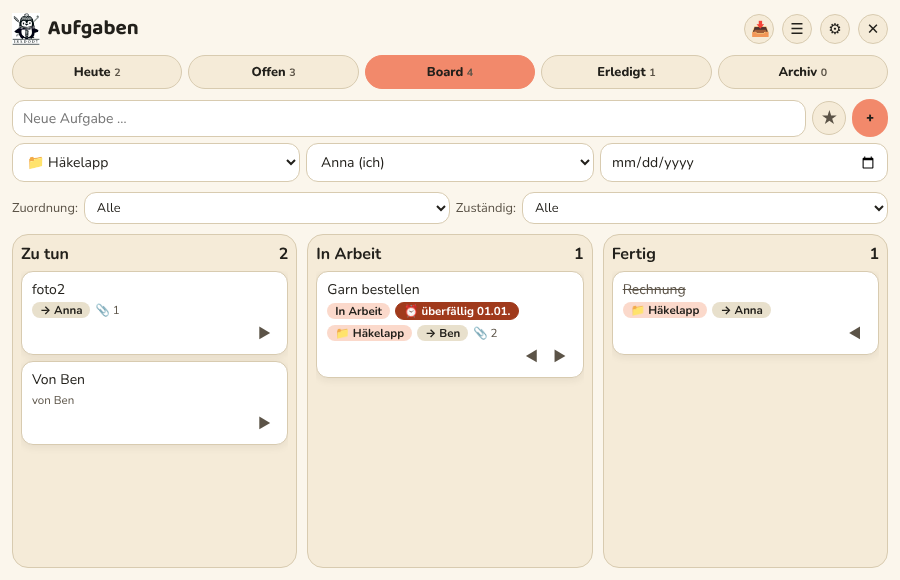
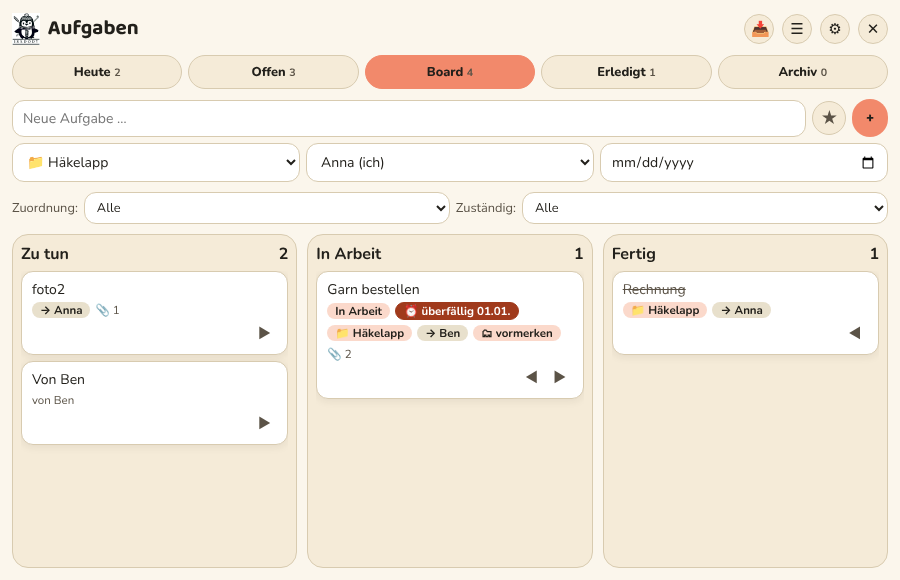
Häkchen 'Zum Einsortieren vormerken' (ablegen/ablage), README zu mehreren Nutzern
Claude-Session: https://claude.ai/code/session_01TVGLGvtCd6t2xYrWaPRYVn

Changed region(s): [[0.3422, 0.5586, 0.6533, 0.7138], [0.3733, 0.5897, 0.4044, 0.6207]]

diff --git a/todo-tray/pwa/app.js b/todo-tray/pwa/app.js
@@ -59,6 +59,7 @@ function metaEl(t) {
   const f = faelligTag(t); if (f) m.append(f);
   const pn = projName(t.zuordnung); if (pn) m.append(el('span', { className: 'tag', textContent: pn }));
   if (t.zugewiesenAn) m.append(el('span', { className: 'tag wer', textContent: '→ ' + t.zugewiesenAn }));
+  if (t.ablegen) m.append(el('span', { className: 'tag', textContent: '🗂 vormerken' }));
   if (t.dateienAnzahl) m.append(el('span', { textContent: '📎 ' + t.dateienAnzahl }));
   if (t.erstelltVon && t.erstelltVon !== me) m.append(el('span', { textContent: 'von ' + t.erstelltVon }));
   return m;
@@ -119,6 +120,7 @@ function refreshDetail() {
   const t = finde(detailId); if (!t) { detailId = null; return schliesse(); }
   $('dStatus').value = t.status; $('dFaellig').value = t.faellig || ''; $('dHeute').checked = istHeute(t);
   optWer($('dWer'), false, t.zugewiesenAn || ''); $('dWer').value = t.zugewiesenAn || ''; optProj($('dZu'), 'Ohne Zuordnung', t.zuordnung || '');
+  $('dAblegen').checked = !!t.ablegen; $('dAblage').textContent = t.ablage ? 'Dateien abgelegt in: ' + t.ablage : '';
   $('dInfo').textContent = 'Angelegt von ' + t.erstelltVon + ', zuletzt geändert von ' + t.geaendertVon + '.';
   $('dArch').textContent = t.archiviert ? 'Zurückholen' : 'Archivieren';
   const box = $('dDateien'); box.replaceChildren();
@@ -129,7 +131,7 @@ function refreshDetail() {
 }
 const feld = (id, key, wert) => { $(id).onchange = () => aendern(detailId, { [key]: wert($(id)) }); };
 feld('dStatus', 'status', e => e.value); feld('dFaellig', 'faellig', e => e.value || null); feld('dWer', 'zugewiesenAn', e => e.value || null);
-feld('dZu', 'zuordnung', e => e.value || null); feld('dHeute', 'heute', e => e.checked ? heuteStr() : null);
+feld('dAblegen', 'ablegen', e => e.checked); feld('dZu', 'zuordnung', e => e.value || null); feld('dHeute', 'heute', e => e.checked ? heuteStr() : null);
 $('dTitel').onchange = () => { const v = $('dTitel').value.trim(); if (v) aendern(detailId, { titel: v }); else $('dTitel').value = finde(detailId).titel; };
 $('dNotiz').onchange = () => aendern(detailId, { notiz: $('dNotiz').value });
 $('dFoto').onclick = () => $('fFoto').click(); $('dAdd').onclick = () => $('fDatei').click();

diff --git a/todo-tray/src/app.js b/todo-tray/src/app.js
@@ -67,6 +67,7 @@ function metaEl(t) {
   const f = faelligTag(t); if (f) meta.append(f);
   const pn = projName(t.zuordnung); if (pn) meta.append(el('span', { className: 'tag', textContent: pn }));
   if (t.zugewiesenAn) meta.append(el('span', { className: 'tag wer', textContent: '→ ' + t.zugewiesenAn }));
+  if (t.ablegen) meta.append(el('span', { className: 'tag', textContent: '🗂 vormerken' }));
   if (t.dateien && t.dateien.length) meta.append(el('span', { textContent: '📎 ' + t.dateien.length }));
   if (t.erstelltVon && t.erstelltVon !== cfg.nutzer) meta.append(el('span', { textContent: 'von ' + t.erstelltVon }));
   return meta;
@@ -169,6 +170,7 @@ function refreshDetail(erst) {
   $('dStatus').value = t.status; $('dFaellig').value = t.faellig || ''; $('dHeute').checked = istHeute(t);
   optionenWer($('dWer'), false, t.zugewiesenAn || ''); $('dWer').value = t.zugewiesenAn || '';
   optionen($('dZu'), 'Ohne Zuordnung', t.zuordnung || '');
+  $('dAblegen').checked = !!t.ablegen; $('dAblage').textContent = t.ablage ? 'Dateien abgelegt in: ' + t.ablage : '';
   $('dInfo').textContent = 'Angelegt von ' + t.erstelltVon + ', zuletzt geändert von ' + t.geaendertVon + '.';
   $('dArch').textContent = t.archiviert ? 'Zurückholen' : 'Archivieren';
   const box = $('dDateien'); box.replaceChildren();
@@ -182,7 +184,7 @@ function refreshDetail(erst) {
 }
 const feld = (id, key, wert) => { $(id).onchange = () => aendern(detailId, { [key]: wert($(id)) }); };
 feld('dStatus', 'status', e => e.value); feld('dFaellig', 'faellig', e => e.value || null); feld('dWer', 'zugewiesenAn', e => e.value || null);
-feld('dZu', 'zuordnung', e => e.value || null); feld('dHeute', 'heute', e => e.checked ? heuteStr() : null);
+feld('dAblegen', 'ablegen', e => e.checked); feld('dZu', 'zuordnung', e => e.value || null); feld('dHeute', 'heute', e => e.checked ? heuteStr() : null);
 $('dTitel').onchange = () => { const v = $('dTitel').value.trim(); if (v) aendern(detailId, { titel: v }); else $('dTitel').value = finde(detailId).titel; };
 $('dNotiz').onchange = () => aendern(detailId, { notiz: $('dNotiz').value });
 $('dAdd').onclick = async () => { await window.api.dateiWaehlen(detailId); await laden(); };

diff --git a/todo-tray/pwa/core.js b/todo-tray/pwa/core.js
@@ -5,7 +5,7 @@
   else root.TodoCore = factory();
 })(typeof self !== 'undefined' ? self : this, function () {
   const STATUS = ['todo', 'doing', 'done'];
-  const FIELDS = ['titel', 'notiz', 'status', 'erledigt', 'erledigtAm', 'archiviert', 'heute', 'zuordnung', 'zugewiesenAn', 'faellig'];
+  const FIELDS = ['titel', 'notiz', 'status', 'erledigt', 'erledigtAm', 'archiviert', 'heute', 'zuordnung', 'zugewiesenAn', 'faellig', 'ablegen', 'ablage'];
   const ID_RE = /^[a-z0-9-]+$/;
 
   const now = () => new Date().toISOString();
@@ -24,7 +24,7 @@
     const st = STATUS.includes(status) ? status : 'todo';
     return {
       id: newId(), titel: String(titel).trim(), notiz, status: st, erledigt: st === 'done', erledigtAm: st === 'done' ? now() : null,
-      archiviert: false, heute, zuordnung, zugewiesenAn, faellig,
+      archiviert: false, heute, zuordnung, zugewiesenAn, faellig, ablegen: false, ablage: null,
       erstelltVon: user, erstelltAm: now(), geaendertVon: user, geaendertAm: now(),
     };
   }

diff --git a/todo-tray/shared/core.js b/todo-tray/shared/core.js
@@ -5,7 +5,7 @@
   else root.TodoCore = factory();
 })(typeof self !== 'undefined' ? self : this, function () {
   const STATUS = ['todo', 'doing', 'done'];
-  const FIELDS = ['titel', 'notiz', 'status', 'erledigt', 'erledigtAm', 'archiviert', 'heute', 'zuordnung', 'zugewiesenAn', 'faellig'];
+  const FIELDS = ['titel', 'notiz', 'status', 'erledigt', 'erledigtAm', 'archiviert', 'heute', 'zuordnung', 'zugewiesenAn', 'faellig', 'ablegen', 'ablage'];
   const ID_RE = /^[a-z0-9-]+$/;
 
   const now = () => new Date().toISOString();
@@ -24,7 +24,7 @@
     const st = STATUS.includes(status) ? status : 'todo';
     return {
       id: newId(), titel: String(titel).trim(), notiz, status: st, erledigt: st === 'done', erledigtAm: st === 'done' ? now() : null,
-      archiviert: false, heute, zuordnung, zugewiesenAn, faellig,
+      archiviert: false, heute, zuordnung, zugewiesenAn, faellig, ablegen: false, ablage: null,
       erstelltVon: user, erstelltAm: now(), geaendertVon: user, geaendertAm: now(),
     };
   }

diff --git a/todo-tray/test/store.test.js b/todo-tray/test/store.test.js
@@ -57,6 +57,10 @@ assert.throws(() => b.filePath(k.id, '../../aufgaben/' + k.id + '.json'));
 const sg = a.signature(); fs.writeFileSync(src, 'neu'); a.addFiles(k.id, [src]); assert.notStrictEqual(a.signature(), sg);
 a.removeFile(k.id, 'bericht.txt'); assert.strictEqual(a.load().aufgaben.find(x => x.id === k.id).dateien.length, 2);
 a.remove(k.id); assert.ok(!fs.existsSync(path.join(dir, 'dateien', k.id)));
+// Ablegen-Markierung
+const ab = a.create({ titel: 'Ablage' }); assert.strictEqual(ab.ablegen, false);
+assert.strictEqual(b.update(ab.id, { ablegen: true }).ablegen, true);
+assert.strictEqual(a.update(ab.id, { ablegen: false, ablage: 'archiv/Häkelapp/Ablage' }).ablage, 'archiv/Häkelapp/Ablage');
 // Eingang
 fs.writeFileSync(path.join(dir, 'eingang', 'IMG_001.jpg'), 'x'); fs.writeFileSync(path.join(dir, 'eingang', 'IMG_002.jpg'), 'y');
 assert.deepStrictEqual(a.load().eingang, ['IMG_001.jpg', 'IMG_002.jpg']);

diff --git a/todo-tray/pwa/index.html b/todo-tray/pwa/index.html
@@ -103,6 +103,8 @@
       <label>Projekt / Chat<select id="dZu"></select></label>
     </div>
     <label style="flex-direction:row;align-items:center;gap:8px"><input type="checkbox" id="dHeute" style="width:auto"> Für heute</label>
+    <label style="flex-direction:row;align-items:center;gap:8px"><input type="checkbox" id="dAblegen" style="width:auto"> Zum Einsortieren vormerken (Dateien in Drive-Ordner ablegen)</label>
+    <p class="hint" id="dAblage"></p>
     <b>Dateien</b>
     <div id="dDateien" style="display:flex;flex-direction:column;gap:8px"></div>
     <div class="r"><button class="go" type="button" id="dFoto">📷 Foto</button><button class="ghost" type="button" id="dAdd">Datei wählen</button></div>

diff --git a/todo-tray/src/index.html b/todo-tray/src/index.html
@@ -112,6 +112,8 @@
       <label>Projekt / Chat<select id="dZu"></select></label>
     </div>
     <label style="flex-direction:row;align-items:center;gap:8px"><input type="checkbox" id="dHeute"> Für heute</label>
+    <label style="flex-direction:row;align-items:center;gap:8px"><input type="checkbox" id="dAblegen"> Zum Einsortieren vormerken (Dateien in Drive-Ordner ablegen)</label>
+    <p class="hint" id="dAblage"></p>
     <div class="sec">Dateien</div>
     <div id="dDateien" style="display:flex;flex-direction:column;gap:6px"></div>
     <div class="drop" id="dDrop">Dateien hierher ziehen oder <button type="button" class="go" id="dAdd" style="padding:4px 12px">auswählen</button></div>

diff --git a/todo-tray/test/ui.test.js b/todo-tray/test/ui.test.js
@@ -58,6 +58,8 @@ const { Store } = require('../src/store');
   const f = path.join(dir, 'angebot.pdf'); fs.writeFileSync(f, 'x');
   await page.evaluate(([id, p]) => window.api.dateiHinzu(id, [p]), [gb.id, f]); await page.evaluate(() => window.api.__cb()); await page.waitForTimeout(200);
   assert.ok((await page.locator('#dDateien').textContent()).includes('angebot.pdf'));
+  await page.check('#dAblegen'); await page.waitForTimeout(150);
+  assert.strictEqual(store.load().aufgaben.find(t => t.id === gb.id).ablegen, true);
   await page.click('#dOk');
   assert.ok((await page.locator('.tag.late').count()) >= 1);                  // überfällig markiert
   // Eingang (Handy-Fotos)

diff --git a/todo-tray/test/pwa.test.js b/todo-tray/test/pwa.test.js
@@ -107,6 +107,8 @@ const GIS = `window.google = { accounts: { oauth2: { initTokenClient: () => ({ r
   assert.strictEqual(t2.status, 'doing'); assert.strictEqual(t2.zugewiesenAn, 'Ben'); assert.strictEqual(t2.faellig, '2020-05-01');
   const dir = by(t.id, by('dateien', rootF.id).id); assert.ok(dir, 'dateien/<id> fehlt');
   assert.deepStrictEqual(kids(dir.id).map(f => f.name), ['IMG_1.jpg']); assert.strictEqual(kids(dir.id)[0].content, 'JPEGDATA');
+  await page.check('#dAblegen'); await page.waitForTimeout(300);
+  assert.strictEqual(JSON.parse(by(t.id + '.json', aufg).content).ablegen, true);
   await page.click('#dOk');
 
   // Board

diff --git a/todo-tray/README.md b/todo-tray/README.md
@@ -20,6 +20,16 @@ Kleine To-do-App im Windows-Infobereich (Tray-Symbol unten rechts). Electron, Is
 3. Als einzelne Datei bauen: `npm run dist` → `dist/Isadody Aufgaben *.exe` (portabel), auf beide Rechner kopieren.
 4. Beim ersten Start Name und gemeinsamen Ordner wählen (⚙). Einstellungen liegen lokal pro Rechner.
 
+## Einsortieren (Claude legt Dateien ab)
+In den Aufgabendetails gibt es das Häkchen **„Zum Einsortieren vormerken“** (`ablegen: true`, am besten bei erledigten Aufgaben). Auf Zuruf („sortier die vorgemerkten Aufgaben ein“) geht Claude so vor:
+1. Alle Aufgaben mit `ablegen: true` aus `aufgaben/` lesen.
+2. Die Dateien aus `dateien/<id>/` verschieben nach `archiv/<Projekt oder Chat>/<Aufgabentitel>/` (ohne Zuordnung: `archiv/Sonstiges/...`). Nur verschieben, nie löschen. Bei Unklarheit nachfragen.
+3. In der Aufgabe `ablegen: false`, `ablage: "archiv/…/…"` setzen (die App zeigt „Dateien abgelegt in: …“) und die Aufgabe archivieren (`archiviert: true`).
+
+## Mehrere Geräte und Nutzer
+- Ein Nutzer = ein Name (exakt gleich geschrieben) auf allen eigenen Geräten. Die Daten liegen im Drive-Ordner, pro Gerät wird nur Name und Ordnerpfad gespeichert.
+- Weitere Nutzer: Ordner für das Google-Konto freigeben (Bearbeiter), als Testnutzer in der Google Auth Platform eintragen (bis 100), App installieren, Namen wählen. Der Name erscheint danach automatisch in `nutzer.json` und in allen Auswahllisten.
+
 ## Handy (PWA)
 Im Ordner `pwa/`: Web-App für Android/iPhone, spricht direkt mit der Google-Drive-API (gleiche Daten wie die Windows-App, Fotos direkt an Aufgaben). Einrichtung: `PWA-EINRICHTUNG.md`.
 
@@ -29,12 +39,13 @@ Im Ordner `pwa/`: Web-App für Android/iPhone, spricht direkt mit der Google-Dri
 <Ordner>/nutzer.json          { "nutzer": ["Anna", "Ben"] }   (trägt sich beim ersten Start selbst ein)
 <Ordner>/dateien/<id>/...     Anhänge der Aufgabe <id>
 <Ordner>/eingang/             Dateien vom Handy, noch ohne Aufgabe
+<Ordner>/archiv/<Projekt>/<Aufgabe>/   einsortierte Dateien erledigter Aufgaben
 <Ordner>/aufgaben/<id>.json   eine Datei pro Aufgabe
 ```
 Aufgabe:
 ```json
 { "id": "abc-123", "titel": "Garn bestellen", "notiz": "", "status": "todo|doing|done", "erledigt": false, "erledigtAm": null,
-  "archiviert": false, "heute": "2026-11-21", "faellig": "2026-12-01", "zugewiesenAn": "Ben", "zuordnung": "<projekt-id>|null",
+  "archiviert": false, "heute": "2026-11-21", "ablegen": false, "ablage": null, "faellig": "2026-12-01", "zugewiesenAn": "Ben", "zuordnung": "<projekt-id>|null",
   "erstelltVon": "Anna", "erstelltAm": "ISO", "geaendertVon": "Ben", "geaendertAm": "ISO" }
 ```
 Eine Datei pro Aufgabe + Teiländerungen (nur geänderte Felder werden neu geschrieben) vermeiden Konflikte. Dateien mit Namen wie `abc (1).json` (Drive-Konfliktkopien) oder unvollständige JSON werden ignoriert.
